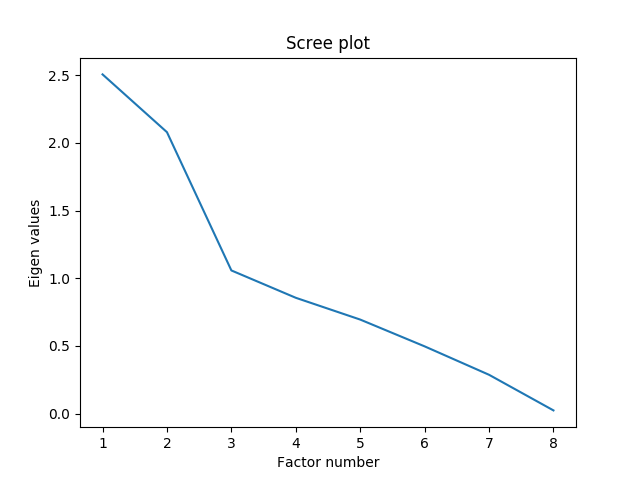
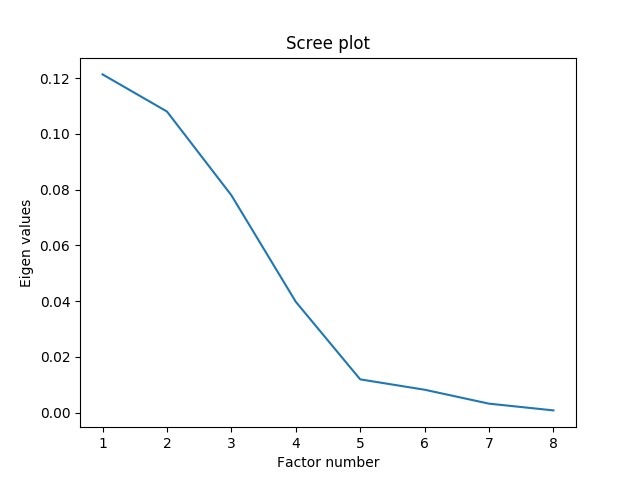
Ajout d'une fonction de sauvegarde de la corrélation des données

diff --git a/Kowalski.py b/Kowalski.py
@@ -1,16 +1,17 @@
 # -*- coding: utf-8 -*-
 import pandas as pd
 import numpy as np
+import seaborn as sn
+from sklearn import tree
 from sklearn.dummy import DummyClassifier
 from sklearn.naive_bayes import GaussianNB
-from sklearn import tree
 from sklearn.linear_model import LogisticRegression
 from sklearn.svm import SVC
 from sklearn.model_selection import cross_val_predict, cross_val_score
 from sklearn.metrics import confusion_matrix
 from sklearn.decomposition import PCA
-import matplotlib.pyplot as plt
 from sklearn.preprocessing import MinMaxScaler, StandardScaler
+import matplotlib.pyplot as plt
 
 def main():
     # Chargement des datasets
@@ -63,8 +64,8 @@ def main():
     df["annee_adh"] = df["annee_adh"].str.slice(stop = 4).astype(int)
 
     # Filtrage des colonnes
-    # df = df["sexe", "nb_enfants", "situation_fam", "statut", "categorie", "annee_adh", "age", "duree", "demissionnaire"]
-    # df = df[["sexe", "nb_enfants", "situation_fam", "age", "duree", "demissionnaire"]]
+    # df = df[["sexe", "nb_enfants", "situation_fam", "statut", "categorie", "annee_adh", "age", "duree", "demissionnaire"]]
+    # df = df[["sexe", "nb_enfants", "situation_fam", "statut", "categorie", "age", "duree", "demissionnaire"]]
 
     # Ligne 1: on ne discretise pas; Ligne 2: on discretise
     df["situation_fam"] = df["situation_fam"].apply(lambda x: ord(x.lower()) - 96).astype(int)
@@ -77,8 +78,10 @@ def main():
     # Création des données X et Y
     X, Y = get_XY(df, "f")
 
+    save_correlation(X)
+
     # Scale des données
-    scaler = StandardScaler()
+    scaler = MinMaxScaler()
     X_cols = X.columns
     x_scaled = scaler.fit_transform(X.values)
     X = pd.DataFrame(data = x_scaled, columns = X_cols)
@@ -91,10 +94,14 @@ def main():
 
     save_eigval_graph(eigval, p)
 
-    print(acp.explained_variance_ratio_)
+    # Variance expliquée par composante principale
+    # print(acp.explained_variance_ratio_)
     
+    # Sauvegarde des cercles de correlation de l'ACP avec les CP (0, 1) et (2, 3)
     correlation_circle(X, p, 0, 1, corvar)
     correlation_circle(X, p, 2, 3, corvar)
+
+    # Sauvegarde des graphes des instances de l'ACP avec les CP (0, 1) et (2, 3)
     save_acp_graph(acp, coord, X, Y, 0, 1)
     save_acp_graph(acp, coord, X, Y, 2, 3)
 
@@ -167,6 +174,7 @@ def save_acp_graph(acp, coord, data, Y, cp1, cp2, fixed = False):
     axes.set_xlabel("CP " + str(cp1 + 1))
     axes.set_ylabel("CP " + str(cp2 + 1))
     plt.savefig("fig/acp_instances_plan_" + str(cp1) + "-" + str(cp2))
+    print("ACP instance graph saved (" + str(cp1) + ", " + str(cp2) + ")")
     plt.close(fig)
 
 # Sauvegarde le cercle des corrélations
@@ -186,6 +194,7 @@ def correlation_circle(df, nb_var, x_axis, y_axis, corvar):
     cercle = plt.Circle((0, 0), 1, color = "blue", fill = False)
     axes.add_artist(cercle)
     plt.savefig("fig/acp_correlation_circle_axes_" + str(x_axis) + "_" + str(y_axis))
+    print("ACP correlation circle saved (" + str(x_axis) + ", " + str(y_axis) + ")")
     plt.close(fig)
 
 # Calcule la corvar de l'ACP
@@ -209,7 +218,14 @@ def save_eigval_graph(eigval, p):
     plt.ylabel("Eigen values")
     plt.xlabel("Factor number")
     plt.savefig("fig/acp_eigen_values")
+    print("ACP eigenvalues graph saved")
     plt.close(fig)
+
+def save_correlation(df, prefix = ""):
+    corr = df.corr()
+    ax = sn.heatmap(corr, annot = True)
+    plt.savefig("fig/" + prefix + "correlation")
+    print("Data correlation graph saved")
 
 if __name__ == "__main__":
     main()
